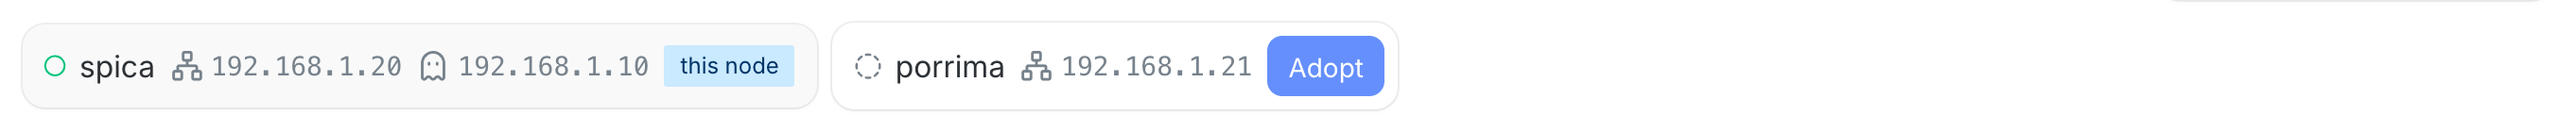
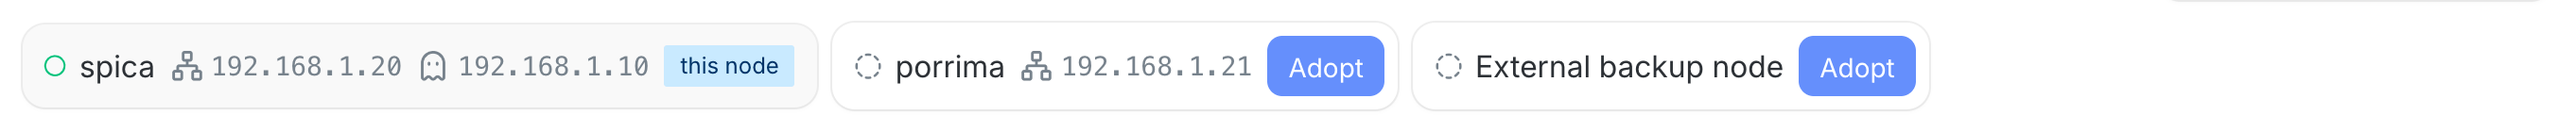
docs(dashboard): document external backup nodes

Changed region(s): [[0.5617, 0.2571, 0.7489, 0.7429]]

diff --git a/src/content/docs/management/dashboard.md b/src/content/docs/management/dashboard.md
@@ -88,6 +88,48 @@ An adopted node has a green dot while it can be seen on your network, and a red 
 - **Take over virtual IP:** when that node holds the virtual IP, move it to this node.
 - **Remove node:** take the node out of the cluster. The virtual IP stays where it is.
 
+### External backup nodes
+
+A node at another location, reached through a VPN, can keep the backups of this node. It never joins the cluster and never takes over the virtual IP. Both nodes have to run the same version, and a node on the same network cannot be added this way: adopt it as a node instead.
+
+On this node, select **Adopt** on **External backup node** and enter the other node's IP address.
+
+![Asking a node at another location to keep the backups](../../../assets/management/dashboard-external.png)
+
+This node then waits for the other node to answer.
+
+![Waiting for the other node to answer](../../../assets/management/dashboard-external-waiting.png)
+
+On the other node, a message asks whether to keep this node's backups. Its administrator has 5 minutes to answer.
+
+![The request on the other node](../../../assets/management/dashboard-external-request.png)
+
+- **Accept:** the other node keeps this node's backups.
+- **Deny:** turn the request down.
+- **Block:** turn the request down and refuse every request from that address from now on. The address is listed under [Blocked addresses](/management/system/network/#blocked-addresses), where the block can be lifted.
+
+When the request is accepted, both nodes confirm it. On the other node:
+
+![The request accepted on the other node](../../../assets/management/dashboard-external-accepted.png)
+
+On this node:
+
+![The other node adopted as an external backup node](../../../assets/management/dashboard-external-adopted.png)
+
+When the request is turned down, or cannot go through, this node shows why.
+
+![The request declined by the other node](../../../assets/management/dashboard-external-declined.png)
+
+When the other node blocks the request, it confirms the block there:
+
+![The request blocked on the other node](../../../assets/management/dashboard-external-blocking.png)
+
+And this node shows that it was blocked:
+
+![This node blocked by the other node](../../../assets/management/dashboard-external-blocked.png)
+
+Once accepted, each node lists the other with an **external** badge. Its menu only has **Remove node**, which stops the backups between the two nodes.
+
 ## Apps and shortcuts
 
 Apps and [shortcuts](/management/resources/shortcuts/) are grouped by category. Select a card to open it.

diff --git a/src/content/docs/management/system/network.md b/src/content/docs/management/system/network.md
@@ -67,7 +67,7 @@ The rules cover the node itself. An app that publishes its own port is not liste
 
 ### Blocked addresses
 
-After repeated failed logins from the same address, the node blocks that address for a while. **Blocked addresses** lists the addresses blocked at the moment, with the service they were trying to log in to in brackets: `sshd` is the remote shell (SSH). The line under it counts every address blocked since the node last started and the failed attempts it is still watching.
+After repeated failed logins from the same address, the node blocks that address for a while. **Blocked addresses** lists the addresses blocked at the moment, with the service they were trying to log in to in brackets: `sshd` is the remote shell (SSH). Addresses blocked from asking to send backups to this node, through [External backup nodes](/management/dashboard/#external-backup-nodes), are listed under `virgo-pairing` and stay blocked until you lift the block. The line under it counts every address blocked since the node last started and the failed attempts it is still watching.
 
 Hover over the **i** next to an address to see when it was blocked and when the block expires. A block is lifted by itself when it expires.
 
